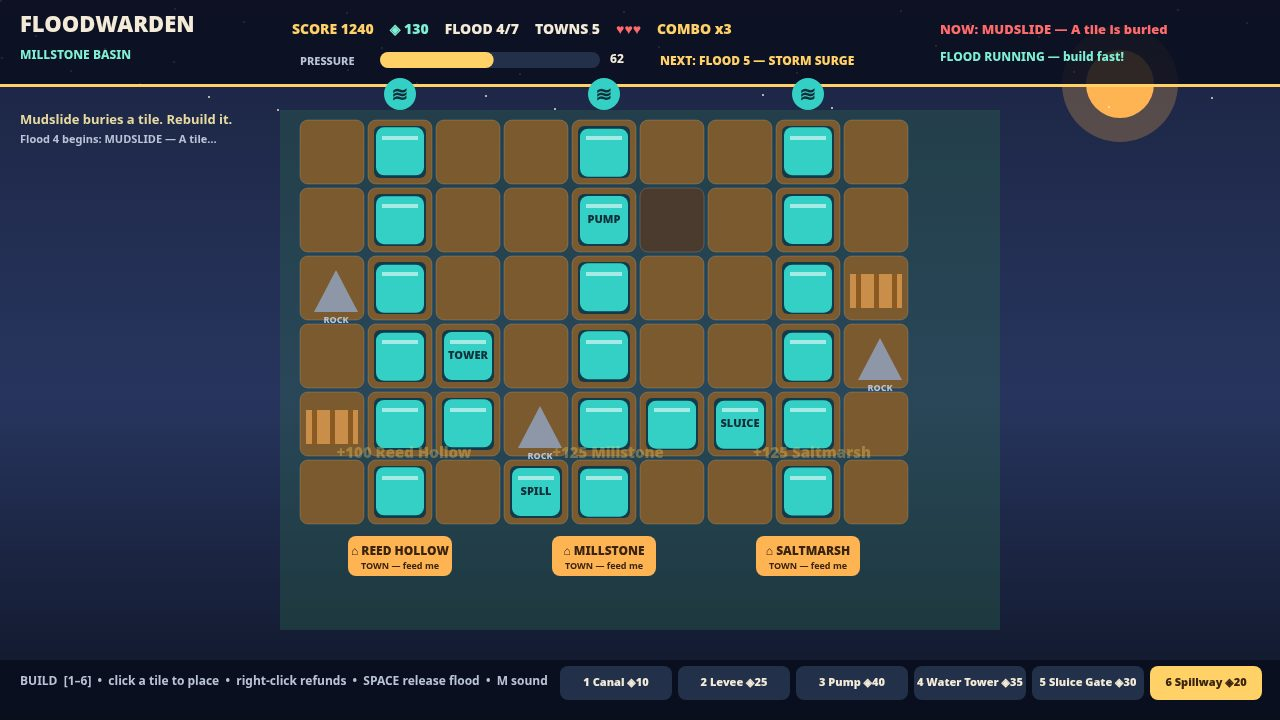
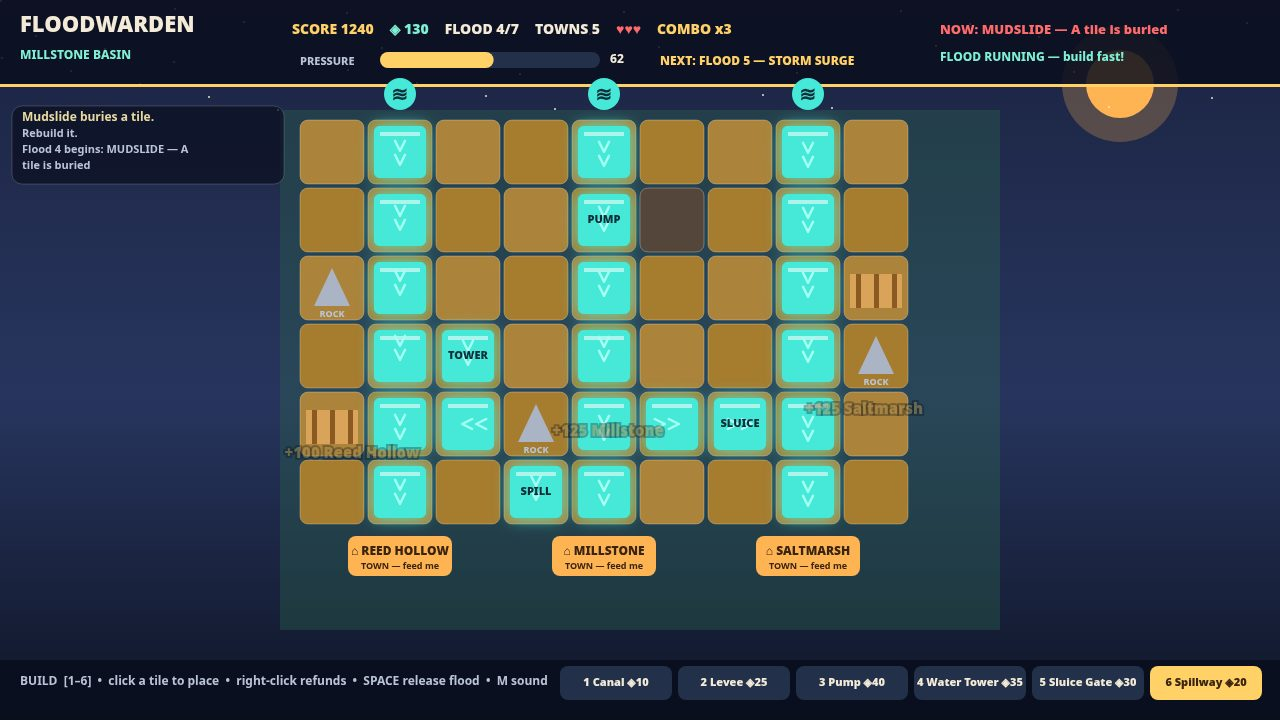
Polish visuals: flowing water chevrons + glow, visible Delugewyrm, staggered floaters, wrapped log, brighter palette

Changed region(s): [[0.0, 0.0917, 0.7188, 0.7333]]

diff --git a/game/src/render.js b/game/src/render.js
@@ -1,12 +1,13 @@
 // FLOODWARDEN render: every pixel the judge sees. One clear job: draw the
 // title, the playfield with its dense HUD, the boss, and the end screen.
 import { BOSS, BUILDS, GRID, TOWNS, VALLEYS, VIEW } from './config.js';
-import { currentValley, currentWave, hazardOf, isWaterTile, nextWaveInfo } from './world.js';
+import { currentValley, currentWave, cellAt, hazardOf, isWaterTile, nextWaveInfo } from './world.js';
 import { SCREEN_OVER, SCREEN_PLAY, SCREEN_TITLE } from './world.js';
 
 const INK = '#f4ead8';
 const DIM = '#b9c4d6';
-const WATER = '#35d0c5';
+const WATER = '#46e8d8';
+const WATER_BRIGHT = '#a5fff2';
 const WATER_DEEP = '#1b7f8f';
 const GOLD = '#ffd166';
 const RED = '#ff6b6b';
@@ -55,6 +56,21 @@ function drawSprings(ctx, world) {
     text(ctx, '≋', x, GRID.y - 25, 20, '#0f2f3a', 'center', 900);
   }
 }
+// Which way the water in this cell is heading: down toward the towns first,
+// then along a wet neighbour. The chevrons in drawTile point this way.
+function flowAngle(world, c, r) {
+  // The bottom row always drains down into the towns below the grid.
+  if (r === GRID.rows - 1) return Math.PI / 2;
+  const down = cellAt(world, c, r + 1);
+  const right = cellAt(world, c + 1, r);
+  const left = cellAt(world, c - 1, r);
+  const up = cellAt(world, c, r - 1);
+  if (down && (down.water > 0.3 || isWaterTile(down))) return Math.PI / 2;
+  if (right && (right.water > 0.3 || isWaterTile(right))) return 0;
+  if (left && (left.water > 0.3 || isWaterTile(left))) return Math.PI;
+  if (up && up.water > 0.3) return -Math.PI / 2;
+  return Math.PI / 2;
+}
 function drawTile(ctx, world, c, r) {
   const cell = world.grid[r][c];
   const x = GRID.x + c * (GRID.cell + GRID.gap);
@@ -63,33 +79,76 @@ function drawTile(ctx, world, c, r) {
   ctx.fillStyle = cell.buried ? '#4a3b2e' : valley.tint;
   roundRect(ctx, x, y, GRID.cell, GRID.cell, 8);
   ctx.fill();
-  ctx.strokeStyle = 'rgba(244,234,216,0.18)';
+  if ((c + r) % 2 === 0) {
+    ctx.fillStyle = 'rgba(255,255,255,0.06)';
+    roundRect(ctx, x, y, GRID.cell, GRID.cell, 8);
+    ctx.fill();
+  }
+  ctx.strokeStyle = 'rgba(244,234,216,0.32)';
+  ctx.lineWidth = 1;
   ctx.stroke();
   if (cell.kind === 'rock') {
-    ctx.fillStyle = '#8d97a8';
-    ctx.beginPath(); ctx.moveTo(x + 14, y + 56); ctx.lineTo(x + 36, y + 14); ctx.lineTo(x + 58, y + 56); ctx.closePath(); ctx.fill();
-    text(ctx, 'ROCK', x + 36, y + 64, 9, DIM, 'center', 800);
+    ctx.fillStyle = '#aab4c4';
+    ctx.beginPath(); ctx.moveTo(x + 14, y + 50); ctx.lineTo(x + 32, y + 12); ctx.lineTo(x + 50, y + 50); ctx.closePath(); ctx.fill();
+    text(ctx, 'ROCK', x + 32, y + 58, 9, DIM, 'center', 800);
   }
   if (cell.kind === 'canal' || cell.kind === 'pump' || cell.kind === 'tower' || cell.kind === 'sluice' || cell.kind === 'spillway') {
-    ctx.fillStyle = '#123a4a';
-    roundRect(ctx, x + 6, y + 6, GRID.cell - 12, GRID.cell - 12, 6); ctx.fill();
+    if (cell.water > 0.3) {
+      // Wet and connected: glowing water, not a flat block.
+      ctx.save();
+      ctx.shadowColor = WATER;
+      ctx.shadowBlur = 16;
+      ctx.fillStyle = WATER;
+      roundRect(ctx, x + 6, y + 6, GRID.cell - 12, GRID.cell - 12, 6); ctx.fill();
+      ctx.restore();
+      ctx.fillStyle = WATER;
+      roundRect(ctx, x + 6, y + 6, GRID.cell - 12, GRID.cell - 12, 6); ctx.fill();
+      ctx.fillStyle = 'rgba(255,255,255,0.55)';
+      ctx.fillRect(x + 12, y + 12, GRID.cell - 24, 4);
+      // Flow chevrons: two arrowheads marching along the flow direction,
+      // offset by time and cell so a still frame still reads as motion.
+      const ang = flowAngle(world, c, r);
+      const dx = Math.cos(ang); const dy = Math.sin(ang);
+      const px = -dy; const py = dx;
+      const cx = x + GRID.cell / 2; const cy = y + GRID.cell / 2;
+      const march = (world.time * 22 + (c * 5 + r * 11)) % 14;
+      ctx.strokeStyle = WATER_BRIGHT;
+      ctx.lineWidth = 2.5;
+      ctx.lineCap = 'round';
+      for (let k = 0; k < 2; k += 1) {
+        const s = -10 + k * 14 + march - 7;
+        const mx = cx + dx * s; const my = cy + dy * s;
+        ctx.beginPath();
+        ctx.moveTo(mx + dx * 6, my + dy * 6);
+        ctx.lineTo(mx - dx * 4 + px * 5, my - dy * 4 + py * 5);
+        ctx.moveTo(mx + dx * 6, my + dy * 6);
+        ctx.lineTo(mx - dx * 4 - px * 5, my - dy * 4 - py * 5);
+        ctx.stroke();
+      }
+    } else {
+      // Dry and unconnected: dark empty channel with a dashed guide line,
+      // clearly different from a tile that already carries water.
+      ctx.fillStyle = '#0b2531';
+      roundRect(ctx, x + 6, y + 6, GRID.cell - 12, GRID.cell - 12, 6); ctx.fill();
+      ctx.strokeStyle = 'rgba(126,240,212,0.45)';
+      ctx.lineWidth = 2;
+      ctx.setLineDash([3, 5]);
+      ctx.beginPath();
+      ctx.moveTo(x + 12, y + GRID.cell / 2); ctx.lineTo(x + GRID.cell - 12, y + GRID.cell / 2);
+      ctx.moveTo(x + GRID.cell / 2, y + 12); ctx.lineTo(x + GRID.cell / 2, y + GRID.cell - 12);
+      ctx.stroke();
+      ctx.setLineDash([]);
+    }
   }
   if (cell.blocked) {
     ctx.fillStyle = '#8d6b4a';
     ctx.fillRect(x + 10, y + 26, GRID.cell - 20, 20);
-    text(ctx, 'DEBRIS', x + 36, y + 36, 10, '#fff', 'center', 900);
-  }
-  if (cell.water > 0.3) {
-    const wob = Math.sin(world.time * 5 + c + r) * 3;
-    ctx.fillStyle = WATER;
-    roundRect(ctx, x + 8, y + 8 + wob * 0.3, GRID.cell - 16, GRID.cell - 16, 8); ctx.fill();
-    ctx.fillStyle = 'rgba(255,255,255,0.55)';
-    ctx.fillRect(x + 14, y + 16, GRID.cell - 28, 4);
+    text(ctx, 'DEBRIS', x + 32, y + 36, 10, '#fff', 'center', 900);
   }
   const label = { pump: 'PUMP', tower: 'TOWER', sluice: 'SLUICE', spillway: 'SPILL', levee: 'LEVEE', canal: '' }[cell.kind];
   if (label) text(ctx, label, x + 32, y + 32, 11, cell.water > 0.3 ? '#0f2f3a' : INK, 'center', 900);
   if (cell.kind === 'levee') {
-    ctx.fillStyle = '#c98f4a';
+    ctx.fillStyle = '#d9a45a';
     ctx.fillRect(x + 6, y + 18, GRID.cell - 12, 34);
     ctx.fillStyle = '#8a5a22';
     for (let i = 0; i < 3; i += 1) ctx.fillRect(x + 12 + i * 18, y + 18, 5, 34);
@@ -106,8 +165,73 @@ function drawTowns(ctx, world) {
     text(ctx, 'TOWN — feed me', x, y + 12, 9, '#3a2410', 'center', 700);
   }
 }
+// The Delugewyrm itself, coiled in the right margin during the boss flood:
+// three dark-outlined coils, a horned head with a glowing eye, and fins.
+// Its colours change with the phase — teal, then amber, then crimson.
+const WYRM_PHASES = [
+  { body: '#35d0c5', belly: '#a5fff2', eye: '#ffffff', fin: '#1b7f8f', horns: 1 },
+  { body: '#ffb454', belly: '#ffe1a8', eye: '#ffffff', fin: '#ff6b6b', horns: 2 },
+  { body: '#ff5a5a', belly: '#ffc2c2', eye: '#ffe600', fin: '#8f1d1d', horns: 3 },
+];
+function drawWyrm(ctx, world) {
+  if (!currentWave(world).boss && world.waveIndex < 6) return;
+  const p = WYRM_PHASES[world.bossPhase] || WYRM_PHASES[0];
+  const cx = 1140;
+  const coil = (y, rx, ry) => {
+    ctx.strokeStyle = '#0f2f3a';
+    ctx.lineWidth = 28;
+    ctx.beginPath(); ctx.ellipse(cx, y, rx, ry, 0, 0, Math.PI * 2); ctx.stroke();
+    ctx.strokeStyle = p.body;
+    ctx.lineWidth = 20;
+    ctx.beginPath(); ctx.ellipse(cx, y, rx, ry, 0, 0, Math.PI * 2); ctx.stroke();
+    ctx.strokeStyle = p.belly;
+    ctx.lineWidth = 3;
+    ctx.beginPath(); ctx.ellipse(cx, y, rx - 12, ry - 8, 0, Math.PI * 0.15, Math.PI * 0.85); ctx.stroke();
+  };
+  coil(240, 76, 32);
+  coil(340, 86, 34);
+  coil(440, 72, 30);
+  // Dorsal fins along the coils.
+  ctx.fillStyle = p.fin;
+  for (const [fx, fy] of [[1072, 214], [1208, 214], [1062, 314], [1218, 314], [1080, 416], [1200, 416]]) {
+    ctx.beginPath(); ctx.moveTo(fx - 8, fy); ctx.lineTo(fx, fy - 16); ctx.lineTo(fx + 8, fy); ctx.closePath(); ctx.fill();
+  }
+  // Head, rising above the top coil, snout pointing at the towns.
+  const hy = 138;
+  ctx.fillStyle = '#0f2f3a';
+  ctx.beginPath(); ctx.ellipse(cx, hy, 50, 34, 0, 0, Math.PI * 2); ctx.fill();
+  ctx.fillStyle = p.body;
+  ctx.beginPath(); ctx.ellipse(cx, hy, 44, 28, 0, 0, Math.PI * 2); ctx.fill();
+  ctx.fillStyle = p.body;
+  ctx.beginPath(); ctx.ellipse(cx - 44, hy + 6, 26, 17, 0, 0, Math.PI * 2); ctx.fill();
+  // Horns: more of them every phase.
+  ctx.fillStyle = p.fin;
+  const hornCount = p.horns + 1;
+  for (let i = 0; i < hornCount; i += 1) {
+    const hx = cx - 18 + i * 20;
+    ctx.beginPath(); ctx.moveTo(hx - 8, hy - 22); ctx.lineTo(hx, hy - 44 - i * 4); ctx.lineTo(hx + 8, hy - 22); ctx.closePath(); ctx.fill();
+  }
+  // Glowing eye + teeth + roar lines.
+  ctx.fillStyle = '#ffffff';
+  ctx.beginPath(); ctx.arc(cx + 12, hy - 8, 8, 0, Math.PI * 2); ctx.fill();
+  ctx.fillStyle = p.eye;
+  ctx.beginPath(); ctx.arc(cx + 14, hy - 8, 4, 0, Math.PI * 2); ctx.fill();
+  ctx.fillStyle = '#ffffff';
+  for (let i = 0; i < 3; i += 1) {
+    ctx.beginPath(); ctx.moveTo(cx - 62 + i * 10, hy + 16); ctx.lineTo(cx - 57 + i * 10, hy + 24); ctx.lineTo(cx - 52 + i * 10, hy + 16); ctx.closePath(); ctx.fill();
+  }
+  ctx.strokeStyle = p.belly;
+  ctx.lineWidth = 3;
+  ctx.lineCap = 'round';
+  for (let i = 0; i < 3; i += 1) {
+    ctx.beginPath(); ctx.moveTo(cx - 78, hy - 6 + i * 10); ctx.lineTo(cx - 94, hy - 10 + i * 10); ctx.stroke();
+  }
+  text(ctx, 'THE DELUGEWYRM', cx, 500, 13, p.body, 'center', 900);
+  text(ctx, BOSS.phases[world.bossPhase], cx, 520, 11, DIM, 'center', 800);
+}
 function drawBoss(ctx, world) {
   if (!currentWave(world).boss && world.waveIndex < 6) return;
+  const p = WYRM_PHASES[world.bossPhase] || WYRM_PHASES[0];
   // Boss band below the towns: name + HP bar on top, the serpent below.
   text(ctx, `${BOSS.name}  —  ${BOSS.phases[world.bossPhase]}`, 640, 586, 15, RED, 'center', 900);
   ctx.fillStyle = '#3a1020';
@@ -119,15 +243,15 @@ function drawBoss(ctx, world) {
   ctx.fillStyle = '#123a4a';
   roundRect(ctx, 300, y - 12, 680, 30, 10); ctx.fill();
   ctx.strokeStyle = WATER; ctx.lineWidth = 1; ctx.stroke();
-  // The Delugewyrm: a coiling serpent in the floodwater.
-  ctx.strokeStyle = '#35d0c5'; ctx.lineWidth = 12; ctx.lineCap = 'round';
+  // The Delugewyrm: a coiling serpent in the floodwater, coloured by phase.
+  ctx.strokeStyle = p.body; ctx.lineWidth = 12; ctx.lineCap = 'round';
   ctx.beginPath();
   for (let x = 330; x <= 950; x += 10) {
     const yy = y + Math.sin((x + world.time * 60) / 90) * 6;
     if (x === 330) ctx.moveTo(x, yy); else ctx.lineTo(x, yy);
   }
   ctx.stroke();
-  ctx.fillStyle = '#ff6b6b';
+  ctx.fillStyle = p.fin;
   ctx.beginPath(); ctx.arc(950, y, 12, 0, Math.PI * 2); ctx.fill();
   ctx.fillStyle = '#fff';
   ctx.beginPath(); ctx.arc(955, y - 4, 3, 0, Math.PI * 2); ctx.fill();
@@ -182,20 +306,39 @@ function drawBuildBar(ctx, world) {
 function drawFloaters(ctx, world) {
   for (const f of world.floaters) {
     ctx.globalAlpha = Math.min(1, f.life);
-    text(ctx, f.text, f.x, f.y - (1.2 - f.life) * 30, 15, f.color, 'center', 900);
+    const fy = f.y - (1.2 - f.life) * 30;
+    ctx.font = '900 15px system-ui, sans-serif';
+    ctx.textAlign = 'center';
+    ctx.textBaseline = 'middle';
+    ctx.strokeStyle = 'rgba(10,14,30,0.9)';
+    ctx.lineWidth = 4;
+    ctx.strokeText(f.text, f.x, fy);
+    ctx.fillStyle = f.color;
+    ctx.fillText(f.text, f.x, fy);
   }
   ctx.globalAlpha = 1;
 }
+function wrapLogLine(s, maxChars) {
+  const words = (s || '').split(' ');
+  const lines = [''];
+  for (const w of words) {
+    const cur = lines[lines.length - 1];
+    if (cur && cur.length + 1 + w.length > maxChars) lines.push(w);
+    else lines[lines.length - 1] = cur ? `${cur} ${w}` : w;
+  }
+  return lines;
+}
 function drawLog(ctx, world) {
-  const trunc = (s) => {
-    const t = (s || '');
-    if (t.length <= 36) return t;
-    const cut = t.slice(0, 36);
-    const sp = cut.lastIndexOf(' ');
-    return (sp > 20 ? cut.slice(0, sp) : cut) + '…';
-  };
-  text(ctx, trunc(world.log[0]), 20, 120, 13, '#e8d9a0', 'left', 700);
-  if (world.log[1]) text(ctx, trunc(world.log[1]), 20, 140, 11, DIM, 'left', 700);
+  // Wrapped, never truncated: the whole message fits in the left panel.
+  const lines = [...wrapLogLine(world.log[0], 30), ...wrapLogLine(world.log[1], 30)].filter(Boolean);
+  const h = lines.length * 16 + 14;
+  ctx.fillStyle = 'rgba(10,14,30,0.72)';
+  roundRect(ctx, 12, 106, 272, h, 10); ctx.fill();
+  ctx.strokeStyle = 'rgba(244,234,216,0.18)';
+  ctx.stroke();
+  lines.forEach((line, i) => {
+    text(ctx, line, 22, 118 + i * 16, i === 0 ? 12 : 11, i === 0 ? '#e8d9a0' : DIM, 'left', 700);
+  });
 }
 function drawTitle(ctx, world) {
   sky(ctx, world);
@@ -257,6 +400,7 @@ export function drawGame(ctx, world, screenOverride) {
   drawSprings(ctx, world);
   for (let r = 0; r < GRID.rows; r += 1) for (let c = 0; c < GRID.cols; c += 1) drawTile(ctx, world, c, r);
   drawTowns(ctx, world);
+  drawWyrm(ctx, world);
   drawBoss(ctx, world);
   drawFloaters(ctx, world);
   for (const p of world.particles) {

diff --git a/game/src/world.js b/game/src/world.js
@@ -76,7 +76,11 @@ export function isWaterTile(cell) {
   return cell && ['canal', 'pump', 'tower', 'sluice', 'spillway'].includes(cell.kind);
 }
 export function addFloater(world, col, row, text, color) {
-  world.floaters.push({ x: GRID.x + col * (GRID.cell + GRID.gap) + 36, y: GRID.y + row * (GRID.cell + GRID.gap) + 20, text, color: color || '#ffd166', life: 1.2 });
+  // Stagger simultaneous +N popups across three lanes so they never stack.
+  const lane = world.floaters.length % 3;
+  const baseX = GRID.x + col * (GRID.cell + GRID.gap) + 36;
+  const baseY = GRID.y + row * (GRID.cell + GRID.gap) + 20;
+  world.floaters.push({ x: baseX + (lane - 1) * 52, y: baseY - lane * 22, text, color: color || '#ffd166', life: 1.2 });
 }
 export function addScore(world, points, col, row) {
   const gained = points * world.combo;

diff --git a/game/src/config.js b/game/src/config.js
@@ -3,9 +3,9 @@
 export const VIEW = { width: 1280, height: 720 };
 export const GRID = { cols: 9, rows: 6, x: 300, y: 120, cell: 64, gap: 4 };
 export const VALLEYS = [
-  { name: 'REED HOLLOW', tint: '#2e6b4f', towns: ['Reed Hollow'] },
-  { name: 'MILLSTONE BASIN', tint: '#7a5a2e', towns: ['Millstone'] },
-  { name: 'SALTMARSH DELTA', tint: '#2e5d6b', towns: ['Saltmarsh'] },
+  { name: 'REED HOLLOW', tint: '#2f8f5f', towns: ['Reed Hollow'] },
+  { name: 'MILLSTONE BASIN', tint: '#a67c2e', towns: ['Millstone'] },
+  { name: 'SALTMARSH DELTA', tint: '#2f8a9a', towns: ['Saltmarsh'] },
 ];
 export const TOWNS = [
   { name: 'Reed Hollow', col: 1, need: 2 },
